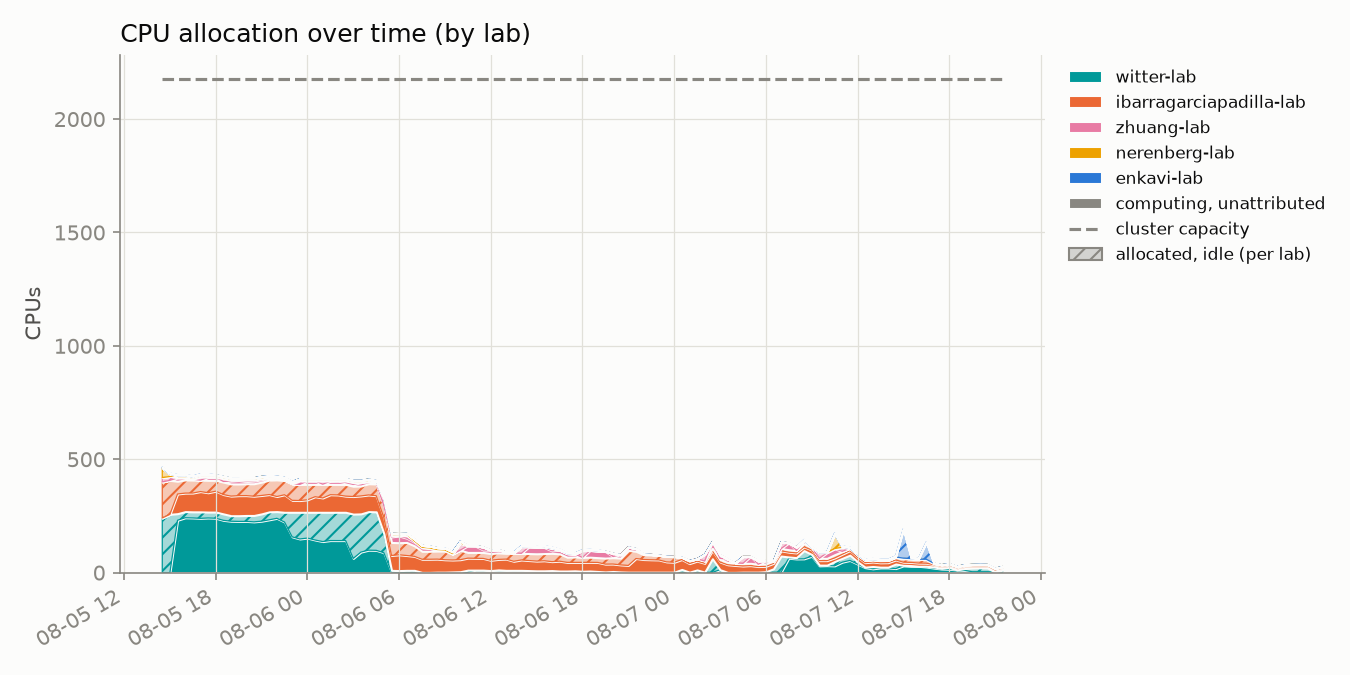
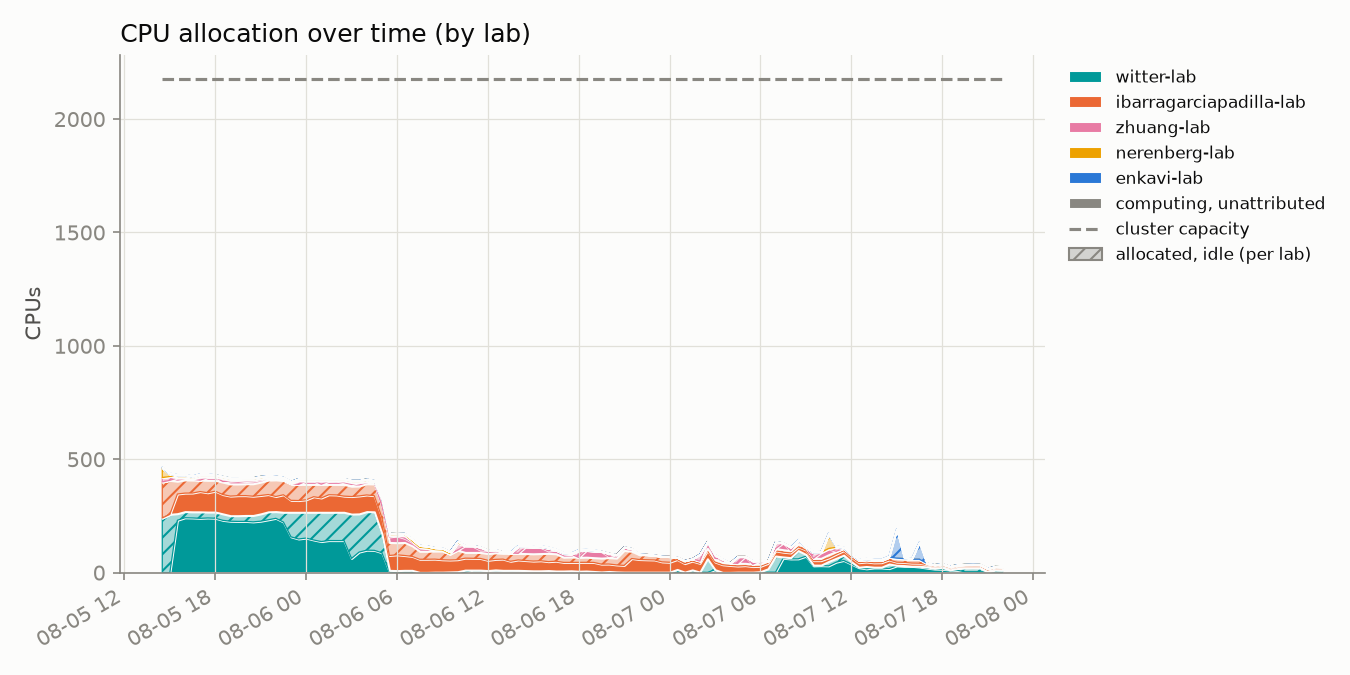
update 2026-08-07T22:00:01-07:00

diff --git a/README.md b/README.md
@@ -2,8 +2,8 @@
 
 Automated GPU/CPU/queue utilization tracker for `hopper.cluster`, updated every 30 minutes by cron. Usernames are anonymized to a stable per-account pseudonym; lab names are real.
 
-Last updated: 2026-08-07T21:30:08-07:00
-Samples: 111 queue snapshots, 111 GPU snapshots
+Last updated: 2026-08-07T22:00:06-07:00
+Samples: 112 queue snapshots, 112 GPU snapshots
 
 ## Resources
 
@@ -16,7 +16,7 @@ Samples: 111 queue snapshots, 111 GPU snapshots
 
 ## Headline
 
-- **49.0%** of the cluster's 60 GPUs allocated, averaged across all samples
+- **48.6%** of the cluster's 60 GPUs allocated, averaged across all samples
 - **46.5%** average `nvidia-smi` utilization *when* a GPU is allocated to a job
 - **87.2%** average cgroup CPU utilization *when* a CPU is allocated to a job
 
@@ -26,14 +26,14 @@ Samples: 111 queue snapshots, 111 GPU snapshots
 <tr><th>Lab</th><th>User</th><th align='right'>GPU-hours allocated</th><th align='right'>CPU-hours allocated</th><th align='right'>GPU utilization</th></tr>
 <tr style='background-color:#fbebf1'><td>zhuang-lab</td><td>user-0db9ced0</td><td align='right'>722.0</td><td align='right'>722.0</td><td align='right'>48%</td></tr>
 <tr style='background-color:#d8efef'><td>witter-lab</td><td>user-d58f5a15</td><td align='right'>467.5</td><td align='right'>3740.0</td><td align='right'>9%</td></tr>
-<tr style='background-color:#d8efef'><td>witter-lab</td><td>user-554c620c</td><td align='right'>389.5</td><td align='right'>891.0</td><td align='right'>66%</td></tr>
+<tr style='background-color:#d8efef'><td>witter-lab</td><td>user-554c620c</td><td align='right'>390.5</td><td align='right'>896.0</td><td align='right'>66%</td></tr>
 <tr style='background-color:#fcf0d8'><td>nerenberg-lab</td><td>user-6bb5f332</td><td align='right'>40.0</td><td align='right'>200.0</td><td align='right'>71%</td></tr>
-<tr style='background-color:#fcf0d8'><td>nerenberg-lab</td><td>user-fedb5feb</td><td align='right'>11.5</td><td align='right'>43.0</td><td align='right'>57%</td></tr>
-<tr style='background-color:#fce8e0'><td>ibarragarciapadilla-lab</td><td>user-dad71a72</td><td align='right'>0.0</td><td align='right'>6.0</td><td align='right'>—</td></tr>
+<tr style='background-color:#fcf0d8'><td>nerenberg-lab</td><td>user-fedb5feb</td><td align='right'>12.0</td><td align='right'>43.5</td><td align='right'>58%</td></tr>
 <tr style='background-color:#dfeaf8'><td>enkavi-lab</td><td>user-c21bdaa4</td><td align='right'>0.0</td><td align='right'>171.0</td><td align='right'>—</td></tr>
-<tr style='background-color:#fce8e0'><td>ibarragarciapadilla-lab</td><td>user-3cfc41a3</td><td align='right'>0.0</td><td align='right'>3757.5</td><td align='right'>—</td></tr>
-<tr style='background-color:#fce8e0'><td>ibarragarciapadilla-lab</td><td>user-eec7ffae</td><td align='right'>0.0</td><td align='right'>426.5</td><td align='right'>—</td></tr>
+<tr style='background-color:#fce8e0'><td>ibarragarciapadilla-lab</td><td>user-dad71a72</td><td align='right'>0.0</td><td align='right'>6.0</td><td align='right'>—</td></tr>
+<tr style='background-color:#fce8e0'><td>ibarragarciapadilla-lab</td><td>user-3cfc41a3</td><td align='right'>0.0</td><td align='right'>3765.0</td><td align='right'>—</td></tr>
 <tr style='background-color:#fcf0d8'><td>nerenberg-lab</td><td>user-b12dc074</td><td align='right'>0.0</td><td align='right'>16.0</td><td align='right'>—</td></tr>
+<tr style='background-color:#fce8e0'><td>ibarragarciapadilla-lab</td><td>user-eec7ffae</td><td align='right'>0.0</td><td align='right'>426.5</td><td align='right'>—</td></tr>
 </table>
 
 ## Usage over time
@@ -44,7 +44,7 @@ Samples: 111 queue snapshots, 111 GPU snapshots
 
 Solid = utilized by lab, hatched = allocated but idle, gray = usage not traceable to a lab, dashed line = cluster capacity.
 
-Attribution combines `nvidia-smi`'s process listing with Slurm's GPU-to-job binding record; the latter caught **2435** readings the former missed.
+Attribution combines `nvidia-smi`'s process listing with Slurm's GPU-to-job binding record; the latter caught **2436** readings the former missed.
 
 ## Queue
 
@@ -56,13 +56,13 @@ Attribution combines `nvidia-smi`'s process listing with Slurm's GPU-to-job bind
 
 ![CPU usage vs GPU usage, decayed](assets/cpu_gpu_usage.png)
 
-One point per user per snapshot (n=536), usage decayed on Slurm's ~7-day fairshare half-life.
+One point per user per snapshot (n=540), usage decayed on Slurm's ~7-day fairshare half-life.
 
 **GPU usage doesn't count toward priority on this cluster** (`TRESBillingWeights`/`PriorityWeightTRES` unset) - watch the **upper-left**: low CPU usage (high priority) with high GPU usage.
 
 ## Recommendations
 
-1. **Weight GPU usage in fairshare.** `TRESBillingWeights` and `PriorityWeightTRES` are both unset right now, so Slurm's fairshare score only sees CPU-seconds - a job holding 4 idle L40S GPUs costs nothing in priority as long as it isn't also holding CPUs. That's the exact failure mode the scatter above is built to catch (upper-left: low CPU usage, high GPU usage). Fix: `scontrol update partition=main TRESBillingWeights=CPU=1.0,GRES/gpu=<weight>` (or set `PriorityWeightTRES` cluster-wide), then `scontrol reconfigure` - a full `slurmctld` restart also works but drops in-flight priority state. A reasonable starting point for `<weight>` is the CPUs-per-GPU ratio on a GPU node (128 CPUs / 4 GPUs = 32), so one GPU costs as much fairshare as the CPU share it displaces; tune from there against next week's headline numbers (49.0% allocated, 46.5% utilized when allocated, as of this snapshot). The weight value itself is a policy call - loop in whoever owns cluster allocation policy before changing it.
+1. **Weight GPU usage in fairshare.** `TRESBillingWeights` and `PriorityWeightTRES` are both unset right now, so Slurm's fairshare score only sees CPU-seconds - a job holding 4 idle L40S GPUs costs nothing in priority as long as it isn't also holding CPUs. That's the exact failure mode the scatter above is built to catch (upper-left: low CPU usage, high GPU usage). Fix: `scontrol update partition=main TRESBillingWeights=CPU=1.0,GRES/gpu=<weight>` (or set `PriorityWeightTRES` cluster-wide), then `scontrol reconfigure` - a full `slurmctld` restart also works but drops in-flight priority state. A reasonable starting point for `<weight>` is the CPUs-per-GPU ratio on a GPU node (128 CPUs / 4 GPUs = 32), so one GPU costs as much fairshare as the CPU share it displaces; tune from there against next week's headline numbers (48.6% allocated, 46.5% utilized when allocated, as of this snapshot). The weight value itself is a policy call - loop in whoever owns cluster allocation policy before changing it.
 
 2. **Escalate on sustained low utilization** (see table and scatter above). Right now the clearest candidate is `user-d58f5a15` in `witter-lab`: 467.5 GPU-hours allocated at 9% average utilization, i.e. roughly 424 GPU-hours that sat idle instead of going to someone in the queue. Turning that into an automated escalation needs two decisions made up front: a utilization threshold (something like under 20% mean utilization over at least 50 allocated GPU-hours is a defensible starting bar - loose enough to skip short debugging runs, tight enough to catch parked allocations) and a grace period (how many consecutive low-utilization snapshots before it counts as "sustained" rather than a momentary lull between batches). Once those are set, the mechanism can be either soft (a bot that reads `data/gpu_samples.jsonl` and reminds the user/lab by email or Slack) or hard (a Slurm-side QOS penalty, e.g. `sacctmgr modify qos <qos> set Priority-=<n>`, applied after N consecutive offending snapshots). Neither exists yet - today the table and scatter above are a read-only signal, not an enforced policy.
 
